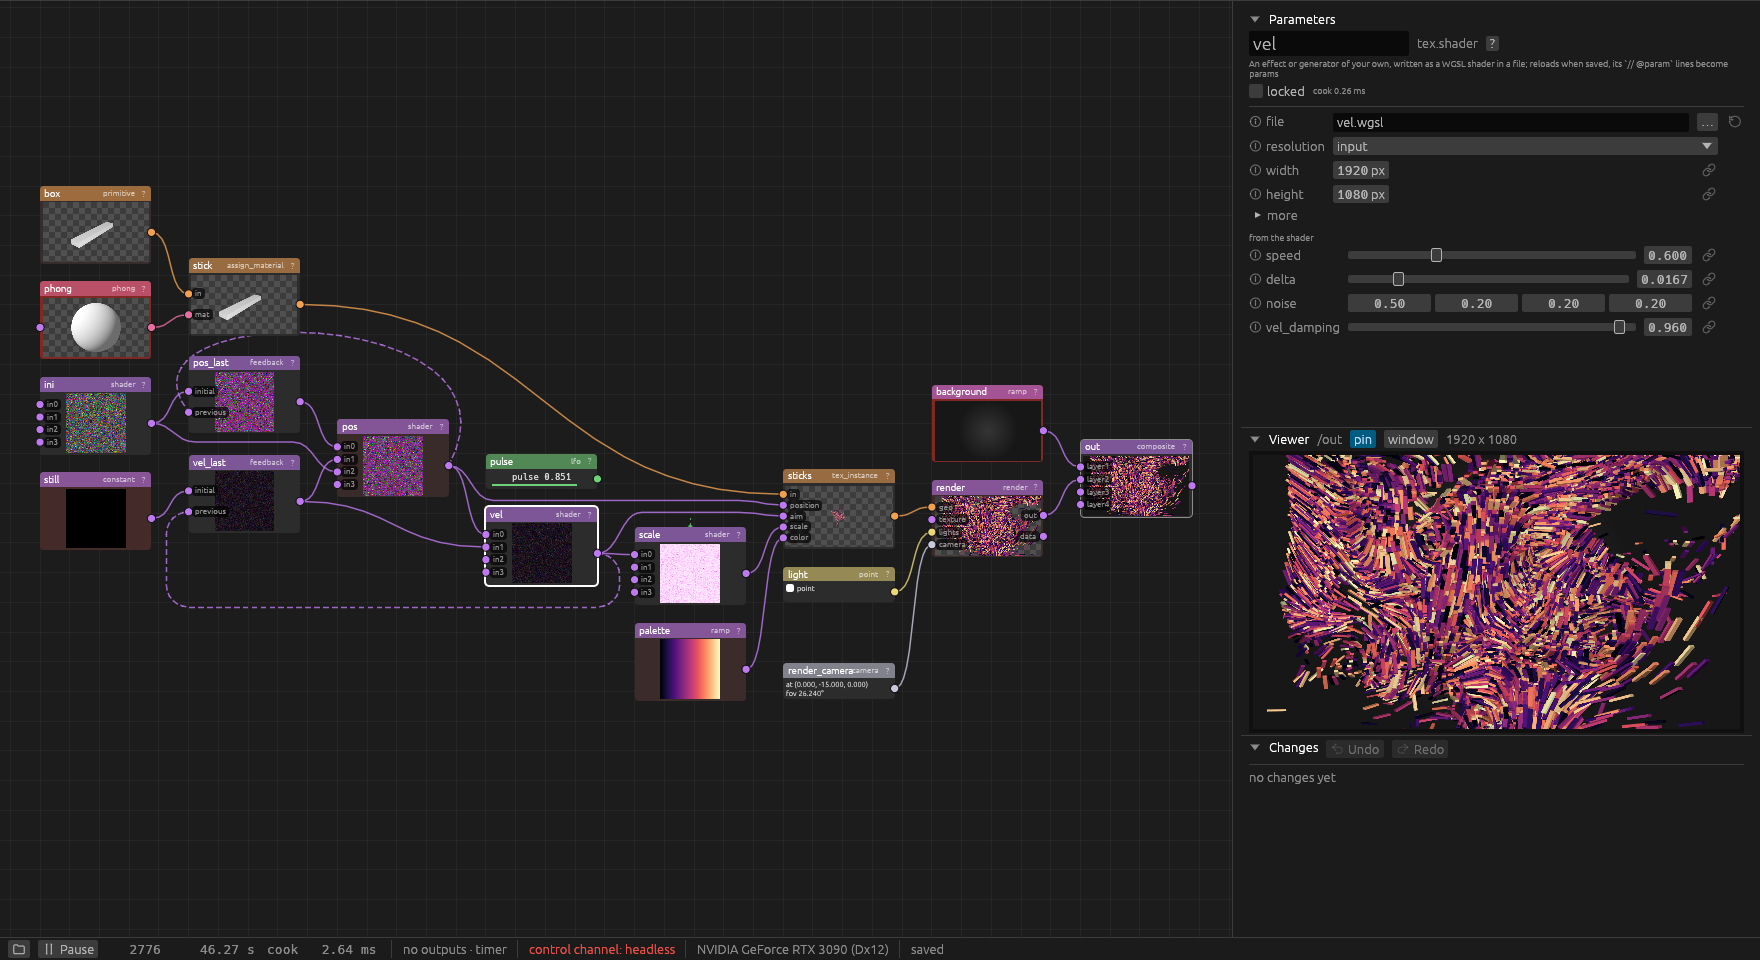
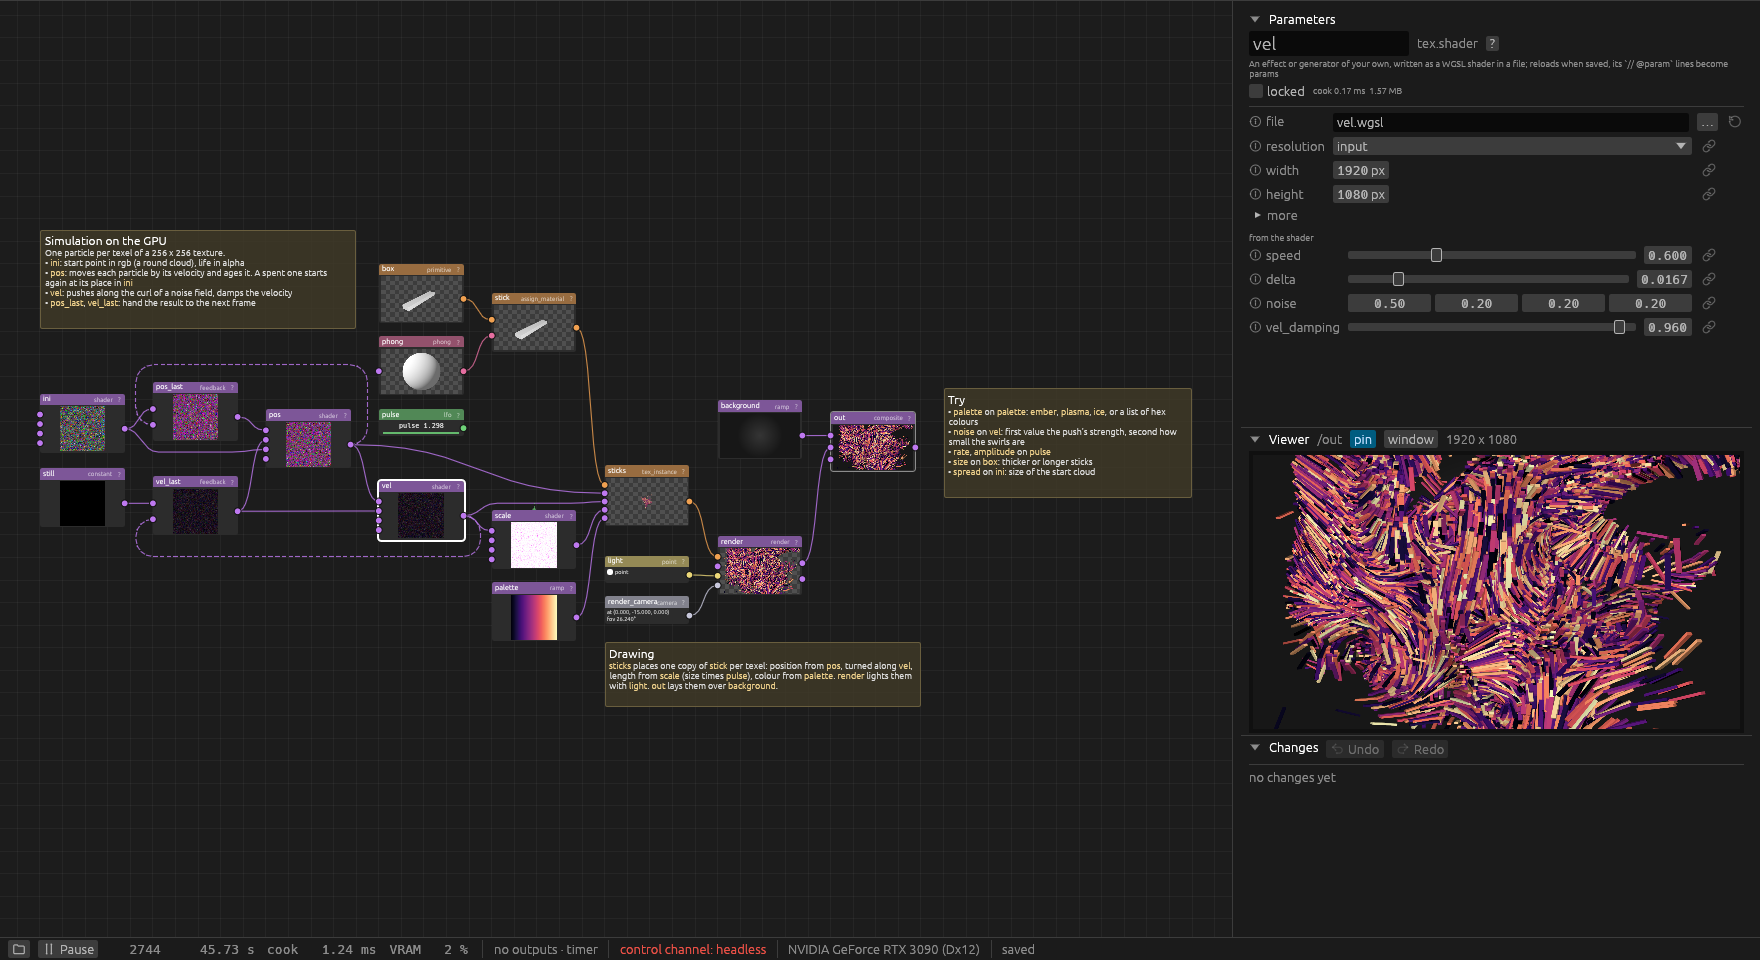
examples: the synthwave intro names its mesh files; the README screenshot shows the editor with the curl-noise notes
generated with Claude Code

diff --git a/README.md b/README.md
@@ -18,7 +18,7 @@ TouchDesigner Python API, its own node names.
 - **Plain files.** A project is a folder of text files that can be diffed and edited by hand.
 - **Free and open source** (MIT or Apache-2.0).
 
-![The penumbra window: the curl-noise example's network on the left, the selected shader's parameters and the rendered output on the right](assets/screenshot.png)
+![The penumbra window: the curl-noise example's network with its notes on the left, the selected shader's parameters and the rendered output on the right](assets/screenshot.png)
 
 **Status:** work in progress, used for its author's installations. There will be breaking
 changes before 1.0 ([scope](#scope)). The current version is on

diff --git a/examples/synthwave/README.md b/examples/synthwave/README.md
@@ -1,8 +1,8 @@
 # synthwave
 
 A glider flies over a city of wireframe blocks, between a floor grid and a ceiling grid. Behind
-it lies a nebula, tinted warm and then cold. Everything is made in the network: no pictures, no
-meshes from files.
+it lies a nebula, tinted warm and then cold. Everything but the glider is made in the network,
+without pictures. The glider comes from two mesh files, `courier.obj` and `fan.obj`.
 
 - **Grid:** `/grid_plane` is a plane split into 80 by 80 `cells`. `/grid_lines`
   (mat.wireframe) draws it as a grid. `/floor` lays it flat and moves it one cell per beat,
